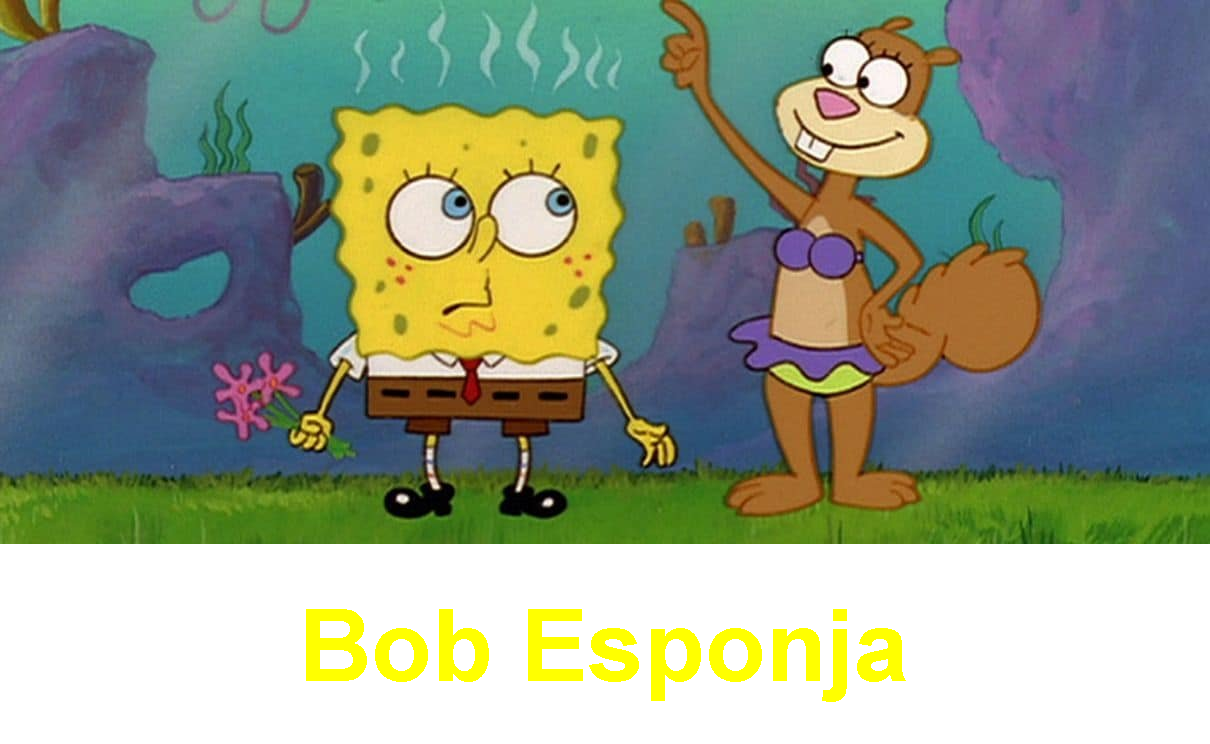
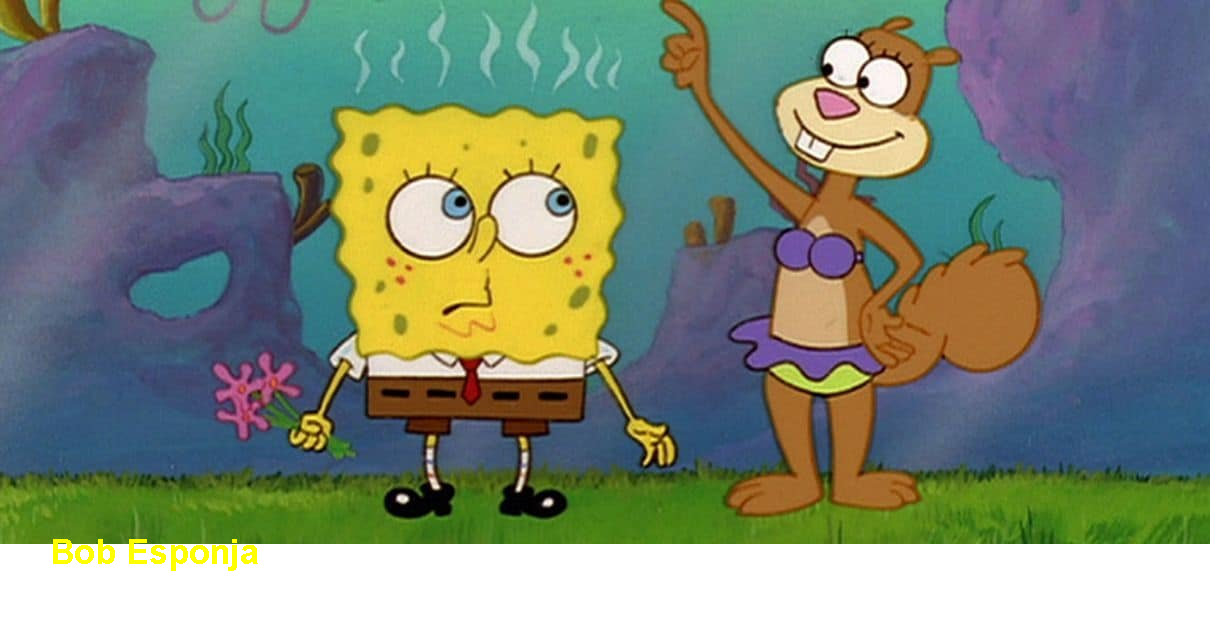
ajustes

diff --git a/src/main/java/br/com/dsm/trabalho_avaliativo_2/model/GeradorFigurinha.java b/src/main/java/br/com/dsm/trabalho_avaliativo_2/model/GeradorFigurinha.java
@@ -3,7 +3,6 @@ package br.com.dsm.trabalho_avaliativo_2.model;
 import javax.imageio.ImageIO;
 import java.awt.Color;
 import java.awt.Font;
-import java.awt.FontMetrics;
 import java.awt.Graphics2D;
 import java.awt.image.BufferedImage;
 import java.io.File;
@@ -19,29 +18,21 @@ public class GeradorFigurinha {
 		// criar um nova imagem em memória com transparência e com tamanho novo
 		int largura = imagemOriginal.getWidth();
 		int altura = imagemOriginal.getHeight();
-		int novaAltura = altura + 200;
+		int novaAltura = altura + 100;
 		BufferedImage novaImagem = new BufferedImage(largura, novaAltura, BufferedImage.TYPE_INT_ARGB);
 
 		// copiar a imagem original para a nova imagem (em memória)
 		Graphics2D graphics = (Graphics2D) novaImagem.getGraphics();
 		graphics.drawImage(imagemOriginal, 0 , 0, null);
 
-		// configurar a fonte para escrever na imagem
-		var fonte = new Font(Font.SANS_SERIF, Font.BOLD, 100);
+		// escrever uma mensagem na nova imagem
+		var fonte = new Font(Font.SANS_SERIF, Font.BOLD, 35);
 		graphics.setFont(fonte);
 		graphics.setColor(Color.YELLOW);
-
-		// centralizar o título na imagem
-		FontMetrics fontMetrics = graphics.getFontMetrics();
-		int tituloLargura = fontMetrics.stringWidth(titulo);
-		int tituloAltura = fontMetrics.getHeight();
-		int tituloX = (largura - tituloLargura) / 2;
-		int tituloY = novaAltura - (tituloAltura / 2);
-
-		// escrever uma mensagem na nova imagem
-		graphics.drawString(titulo, tituloX, tituloY);
+		graphics.drawString(titulo, 50, novaAltura - 80);
 
 		String urlFigurinha = "saida/" + nomeArquivo + ".png";
+		// escrever uma mensagem na nova imagem
 		ImageIO.write(novaImagem, "png", new File(urlFigurinha));
 	}
 }
